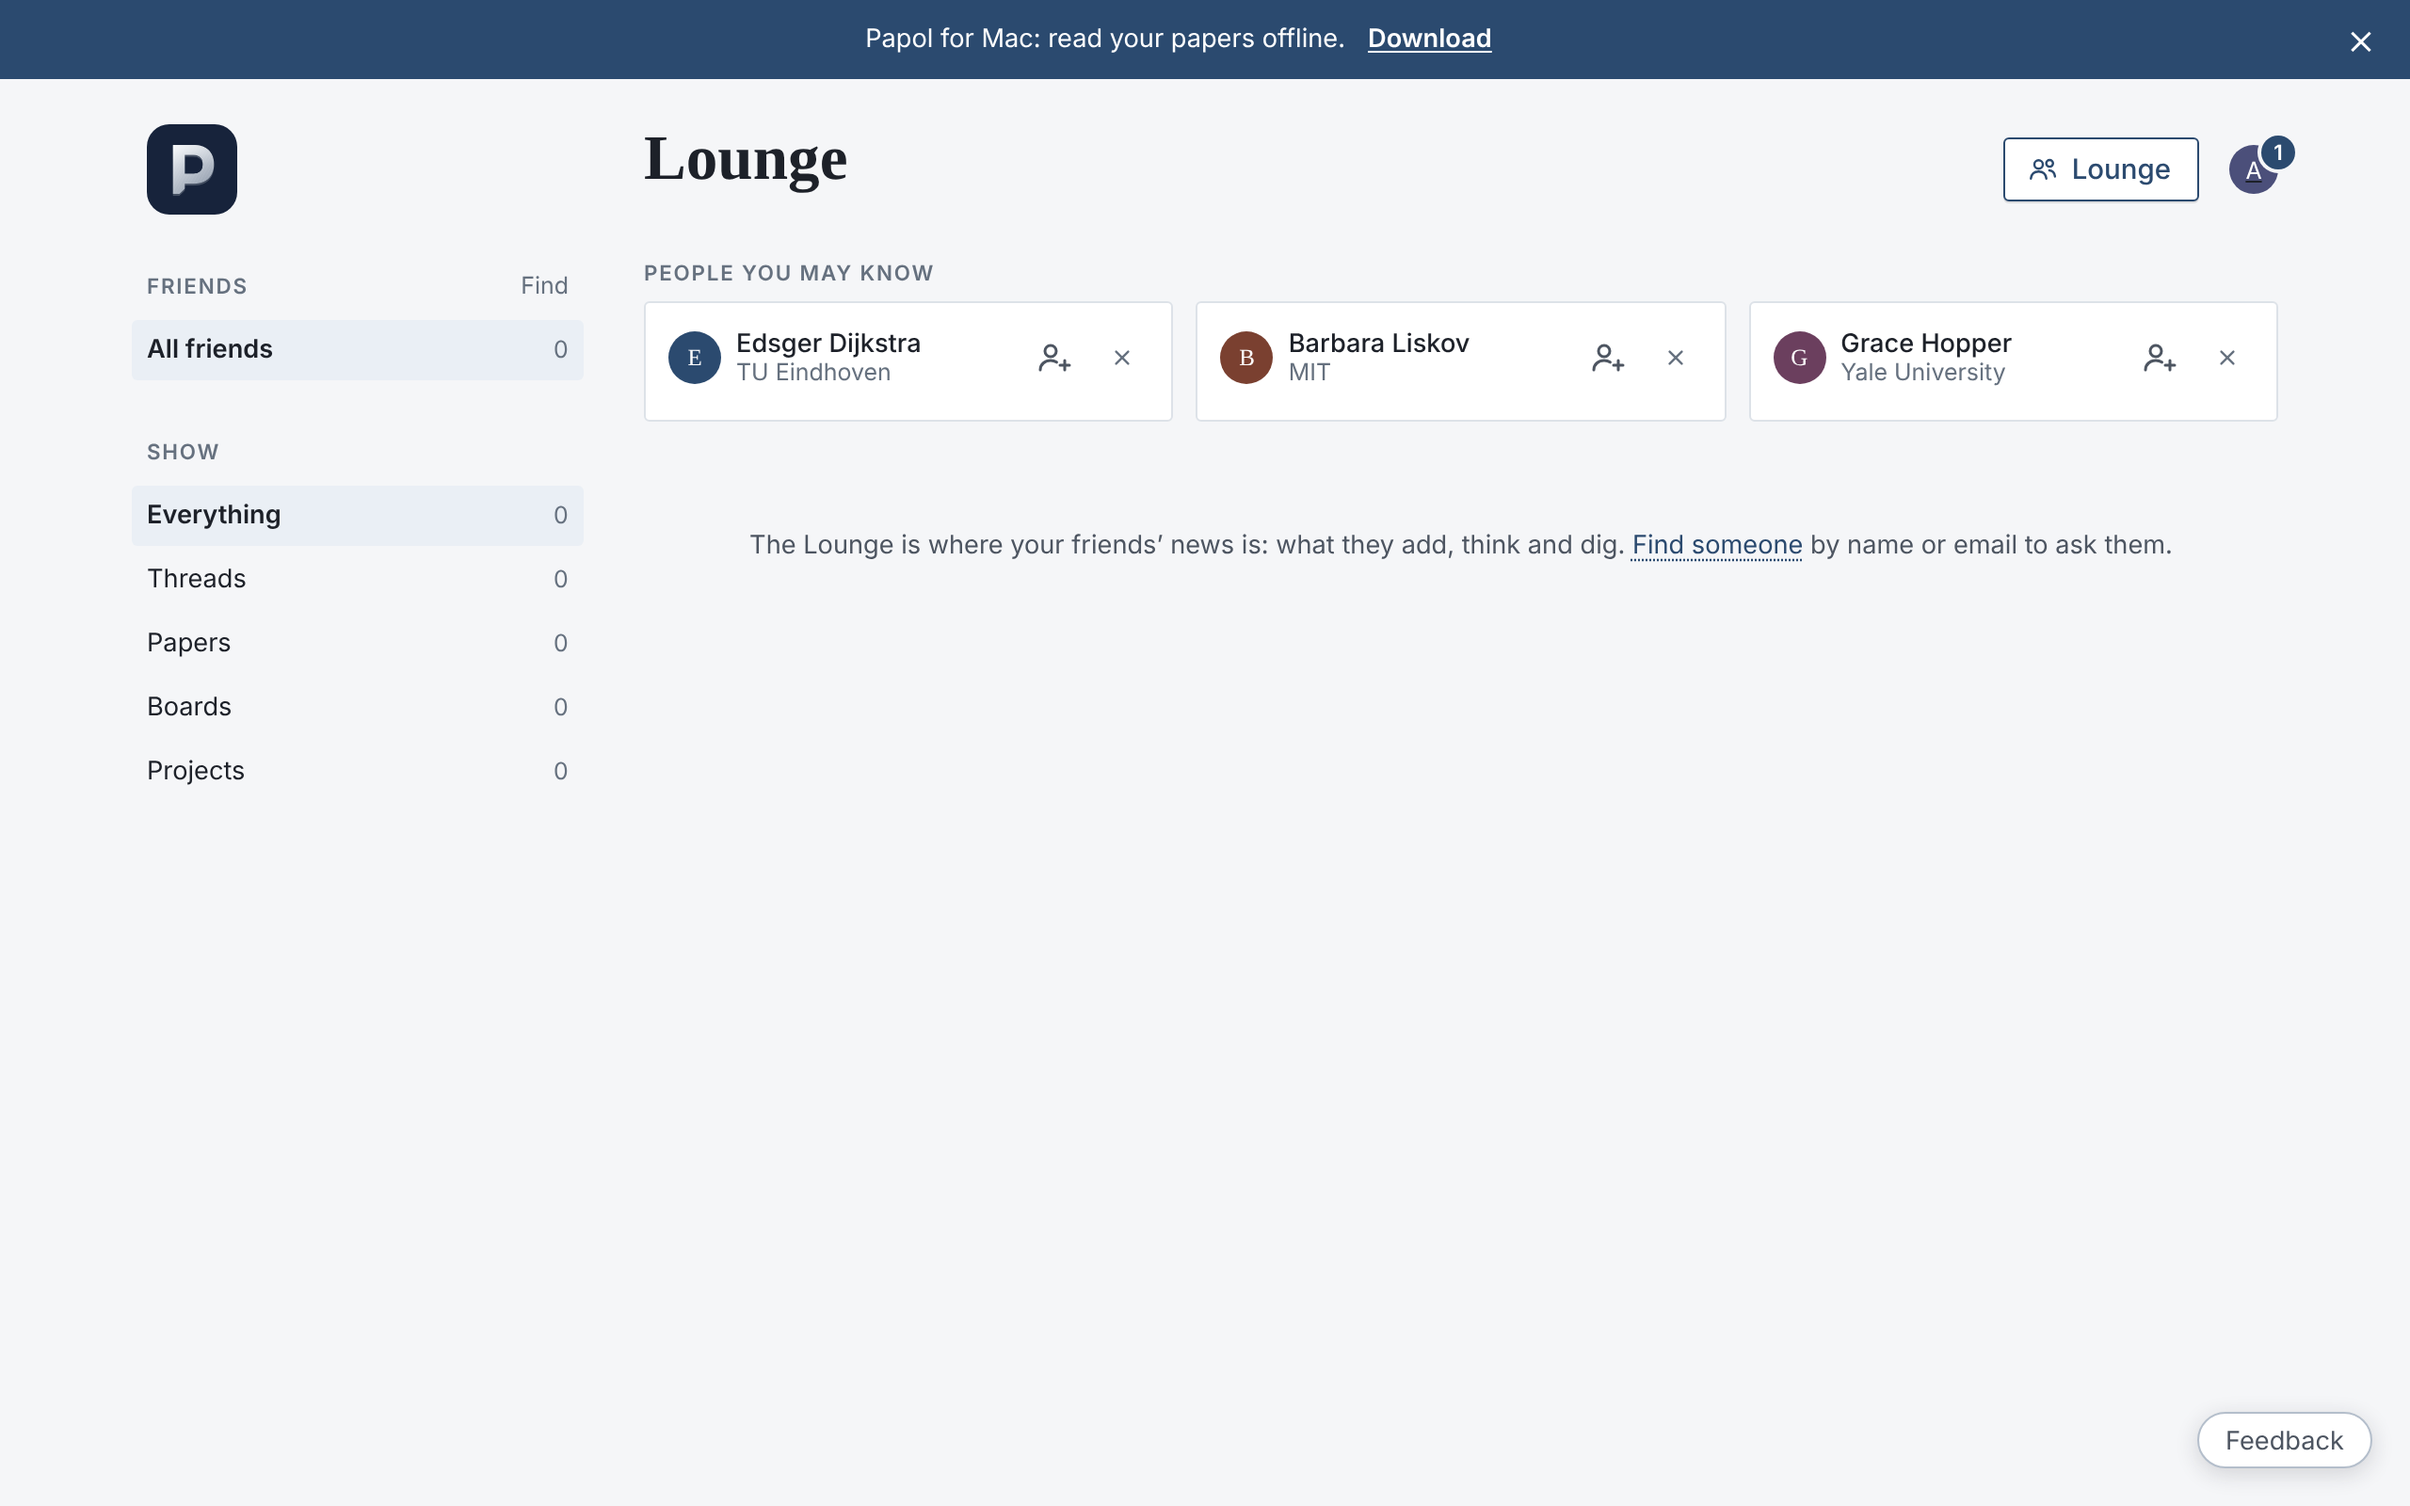
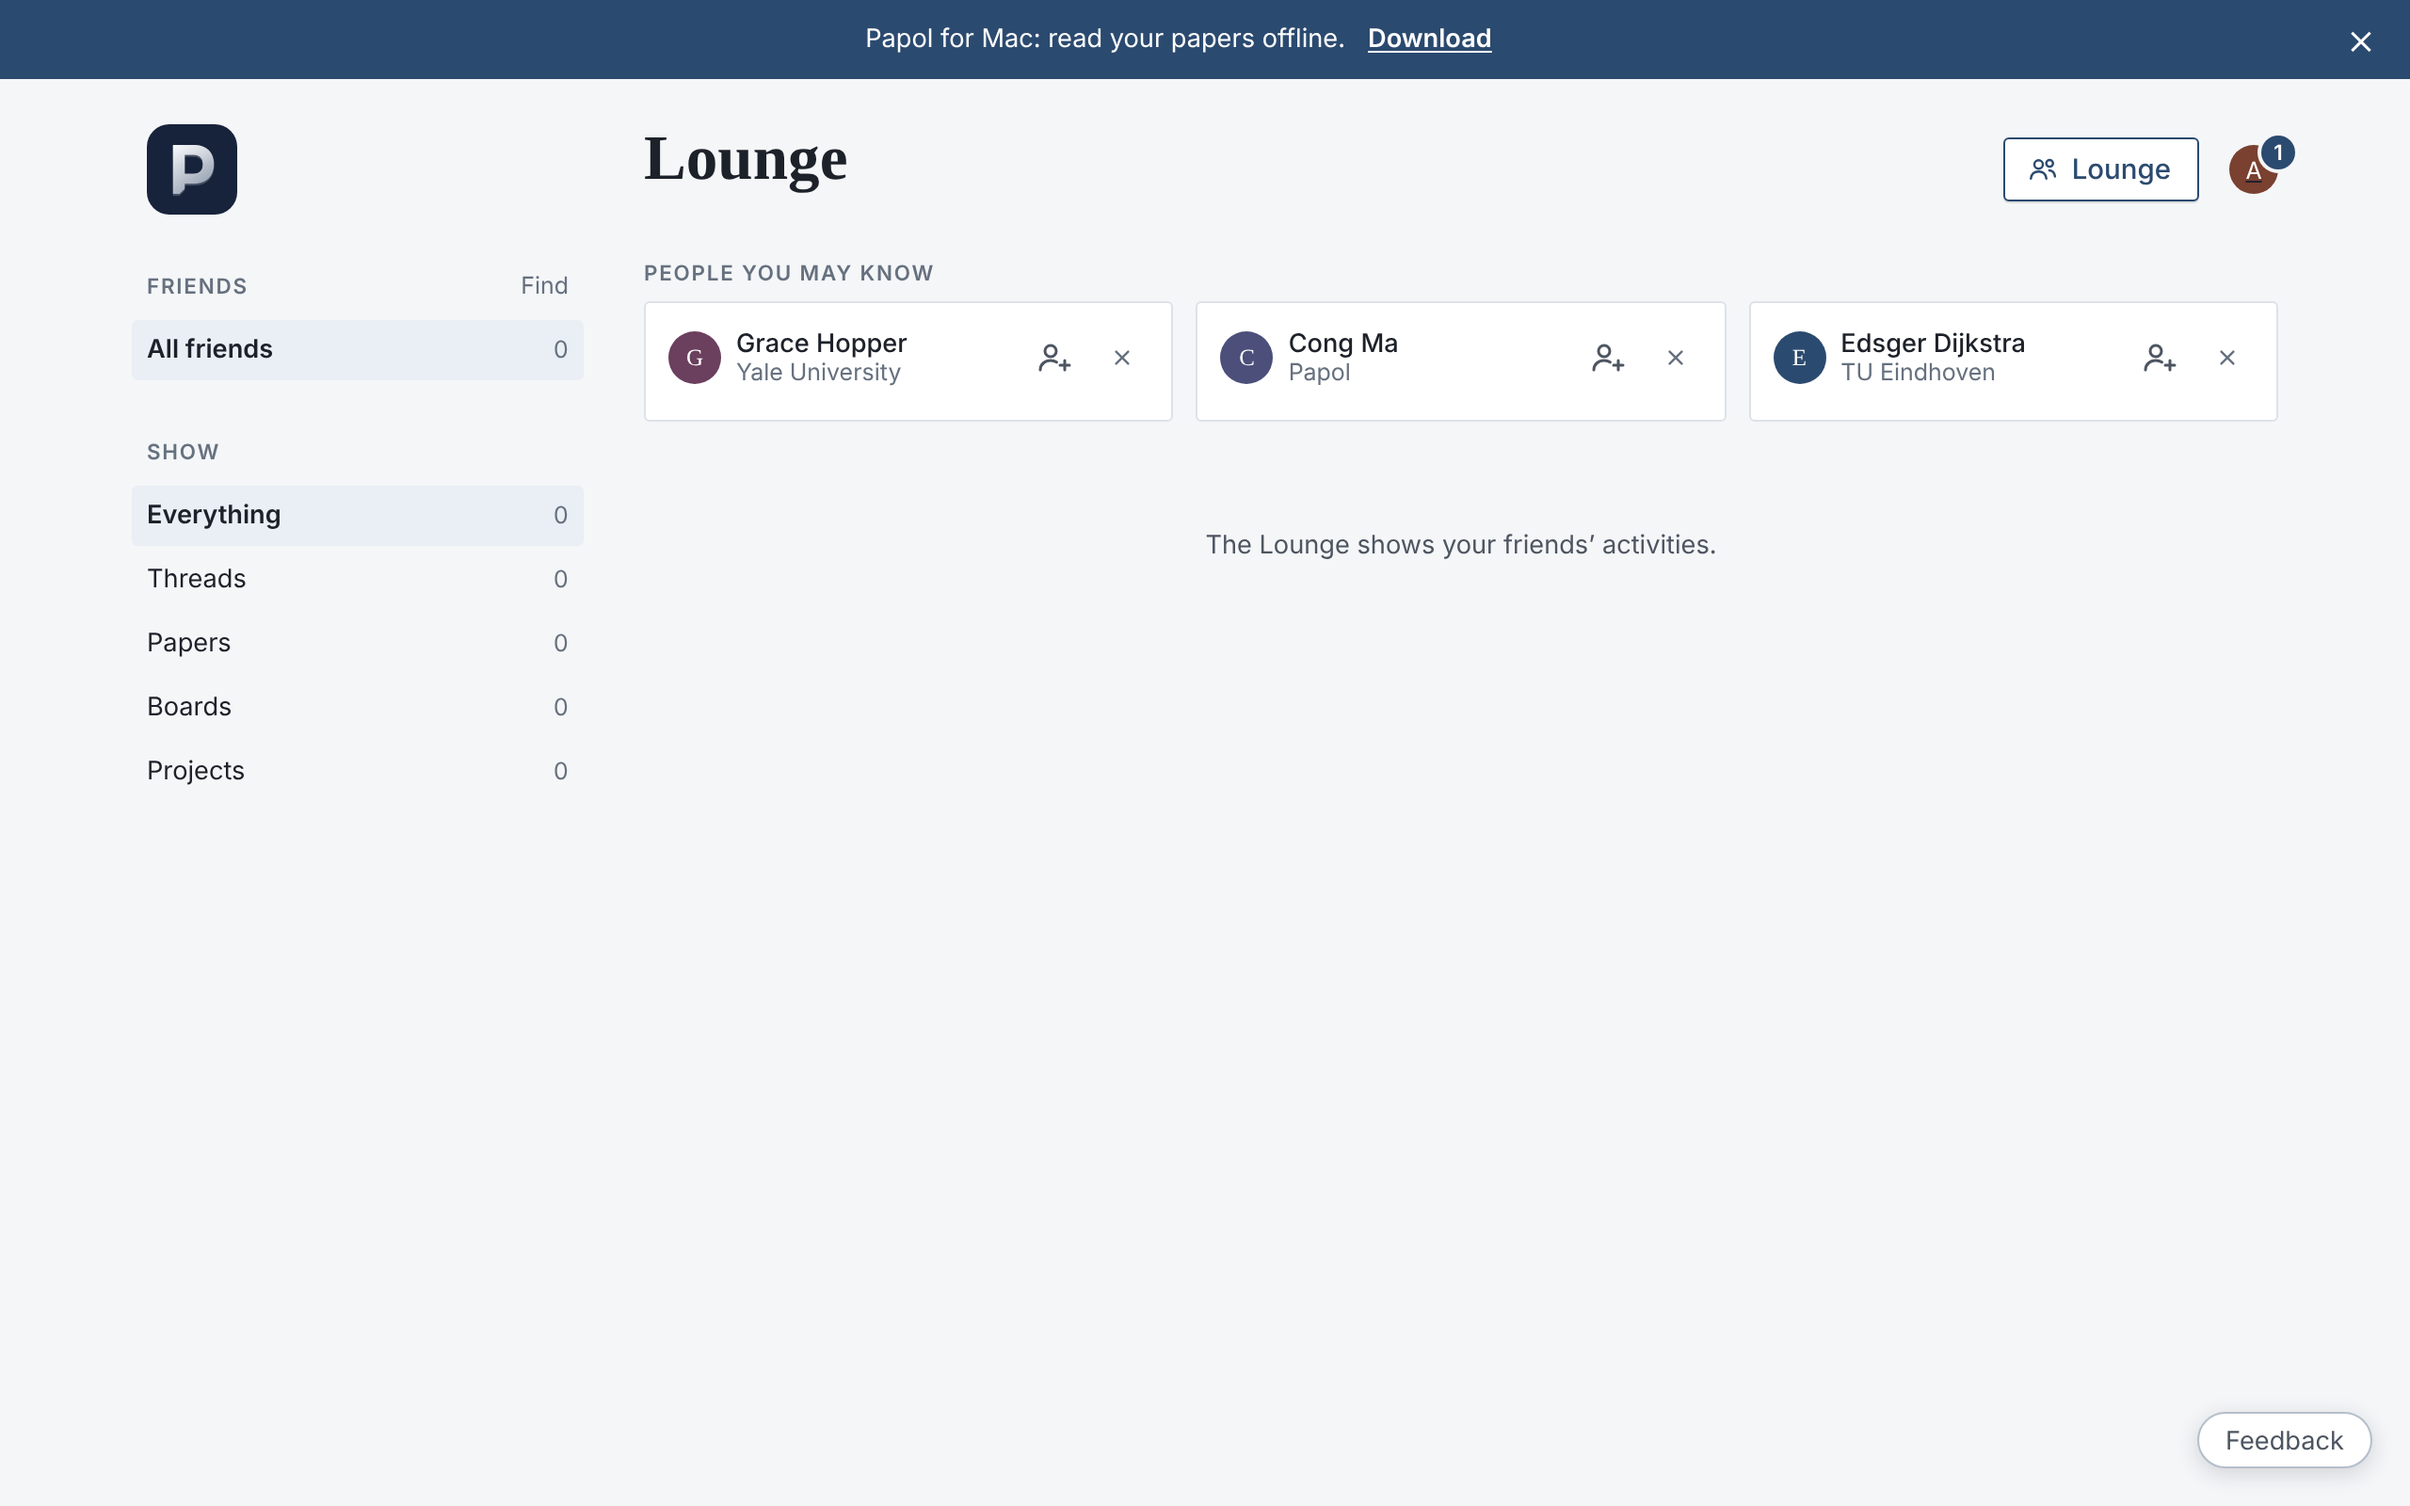
The empty Lounge says only that it shows your friends' activities
Claude-Session: https://claude.ai/code/session_01PQZzMWNmz7YPcagtAra4bx

diff --git a/frontend/src/components/Room.jsx b/frontend/src/components/Room.jsx
@@ -495,10 +495,7 @@ export default function Room({ currentUser, onSeen }) {
           {room && !chosen && <Suggestions currentUser={currentUser} />}
           {!room && !error && <div className="loading"><Working label="Loading the Lounge…" /></div>}
           {room && room.friend_count === 0 && rows.length === 0 && (
-            <p className="room-empty">
-              The Lounge is where your friends’ news is: what they add, think and dig.{' '}
-              <button type="button" className="link-button" onClick={() => setFinding(true)}>Find someone</button> by name or email to ask them.
-            </p>
+            <p className="room-empty">The Lounge shows your friends’ activities.</p>
           )}
           {room && room.friend_count > 0 && rows.length === 0 && (
             <p className="room-empty">Your friends have been quiet this month. Start a thread above, or select something in a paper and send it here.</p>

diff --git a/USER_STORIES.md b/USER_STORIES.md
@@ -248,7 +248,7 @@ A friend is someone I chose, who chose me back. Friendship is the third audience
 
 **Friends only**
 
-- **US-10.10** The Lounge is made from my friends and nobody else. There is no Everyone view: what a stranger does on their public shelves is not in the room, though their nook still opens by a link. With no friends yet the room has no news; Find stands in its rail, the people Papol suggests (US-9.6a) stand where the news would, and a line under them says what the room is for and opens Find.
+- **US-10.10** The Lounge is made from my friends and nobody else. There is no Everyone view: what a stranger does on their public shelves is not in the room, though their nook still opens by a link. With no friends yet the room has no news; Find stands in its rail, the people Papol suggests (US-9.6a) stand where the news would, and a line under them says what the room is: *The Lounge shows your friends’ activities.*
 - **US-10.12** The room has one order, newest first. Nothing is ranked by how many people keep it.
 
 **What the Lounge leaves out**
